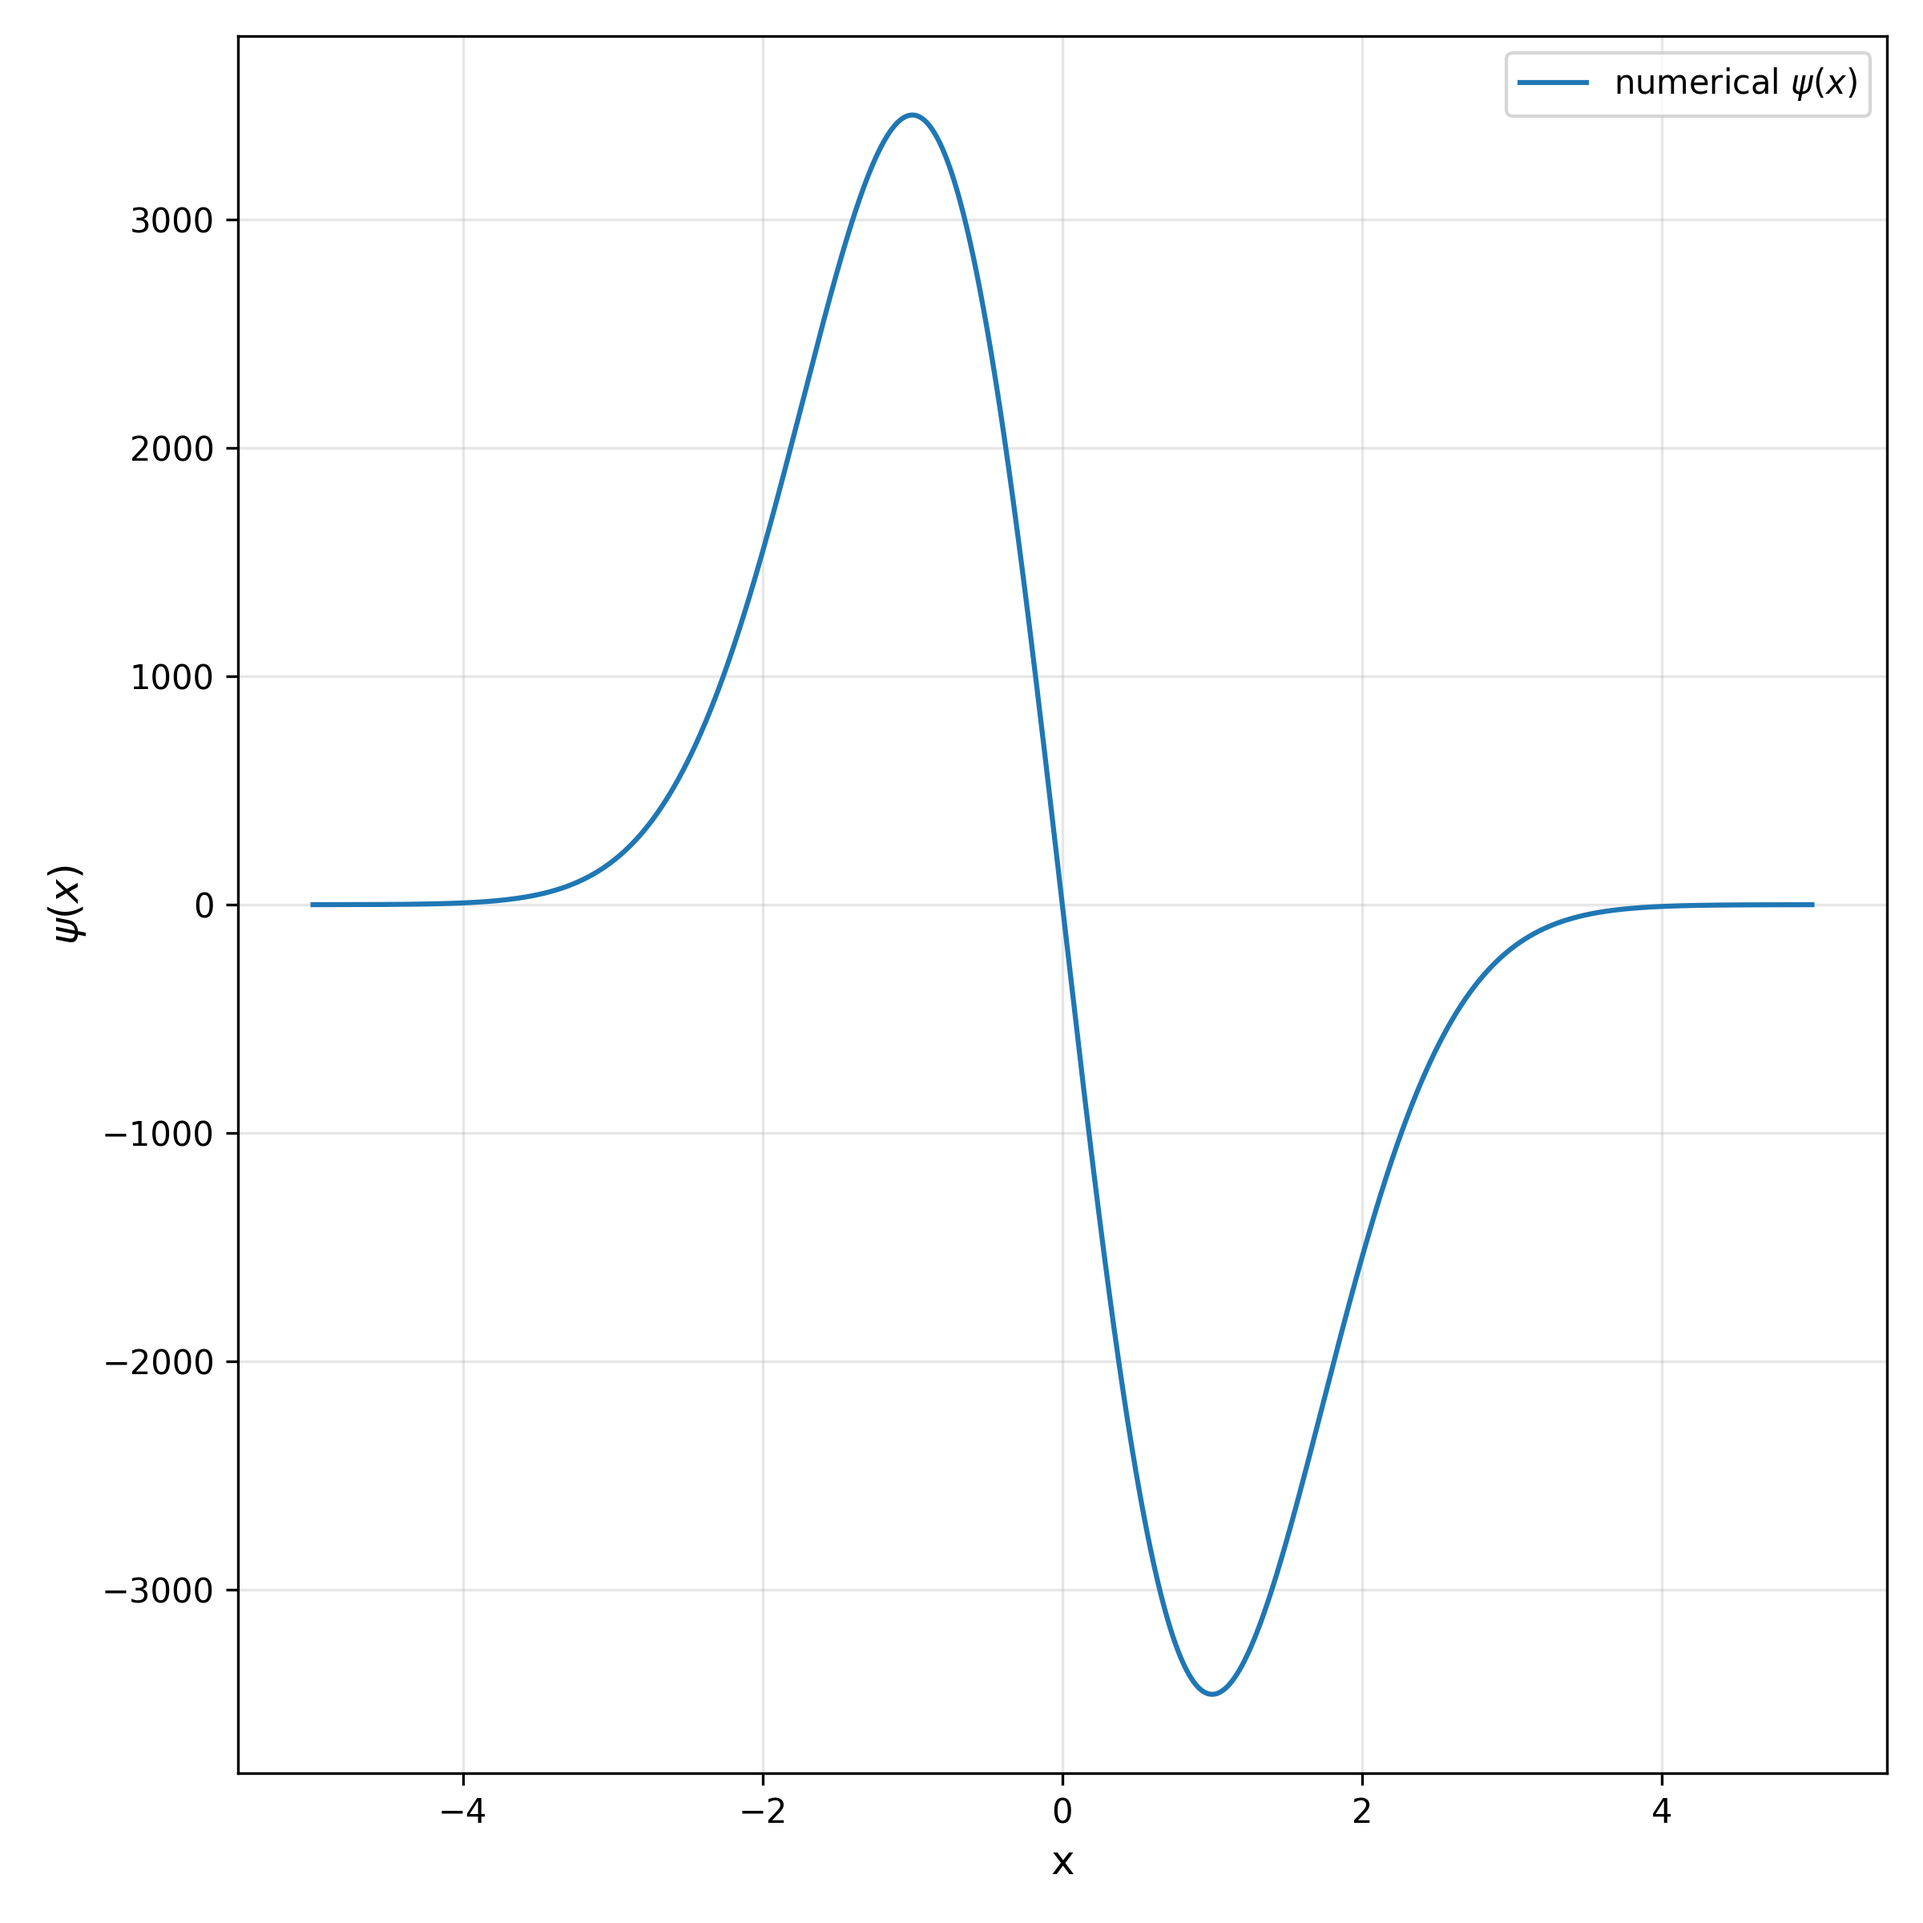
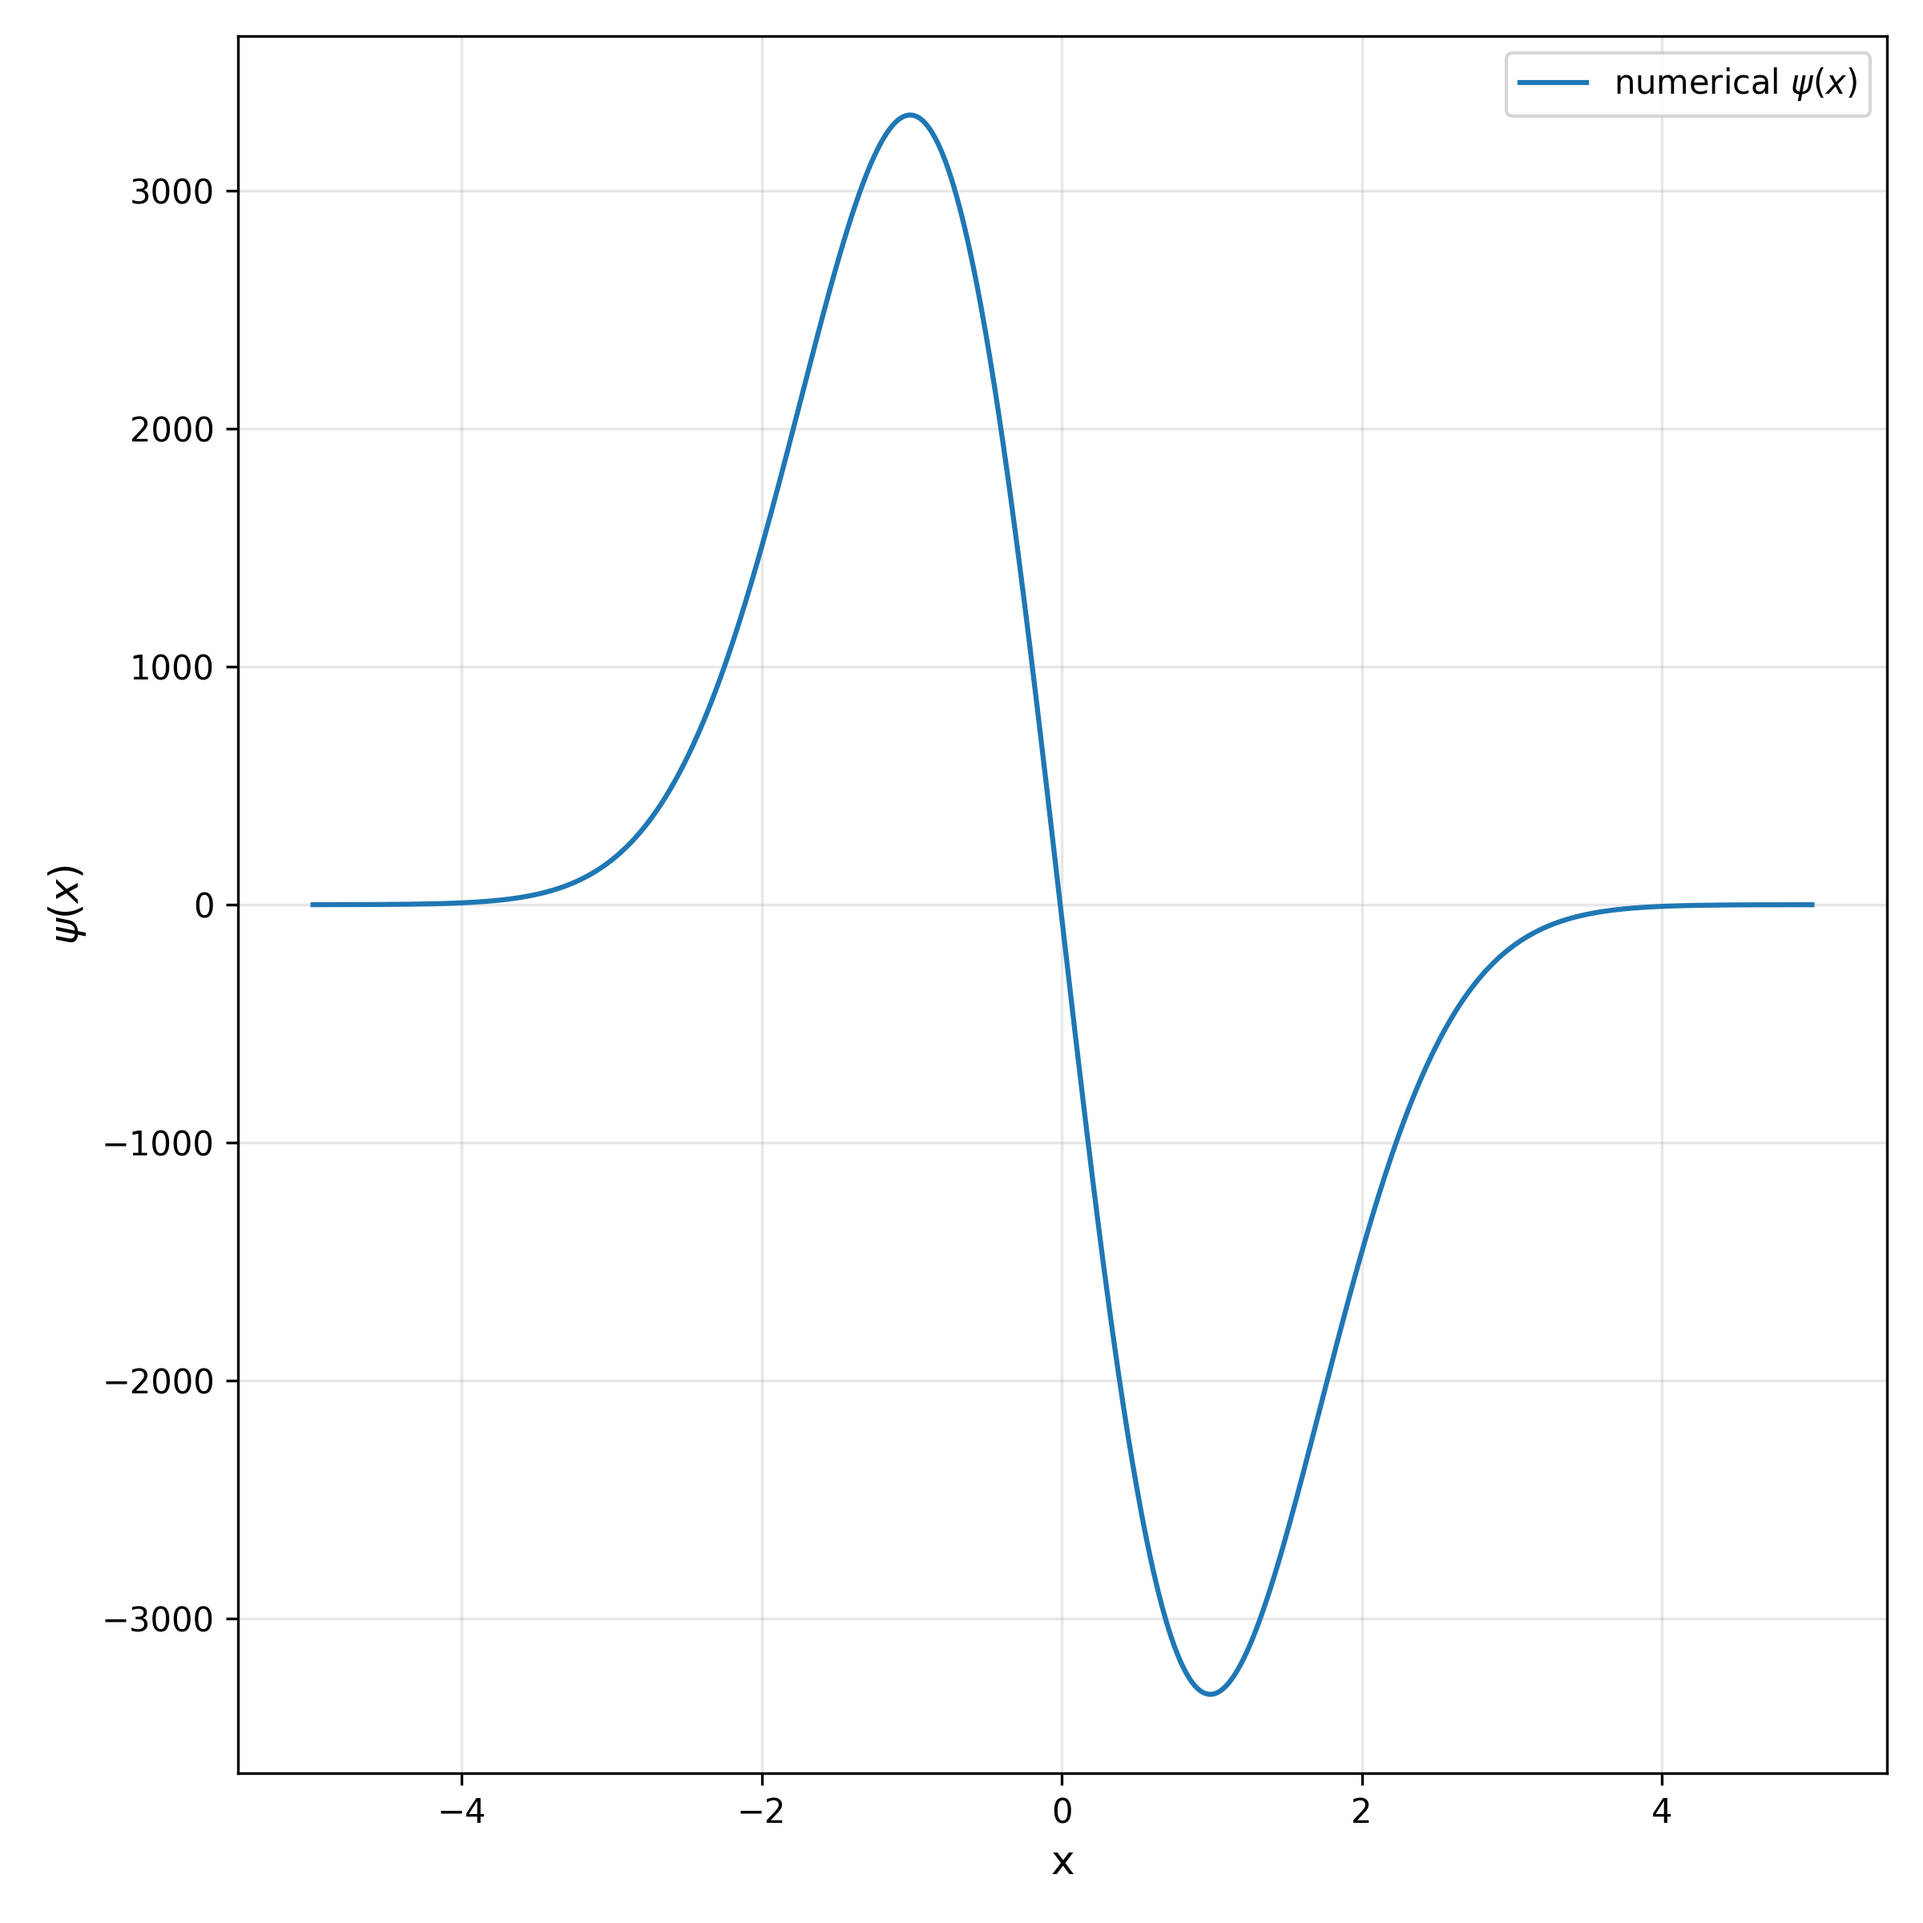
adding homework2

diff --git a/Homeworks/homework2.py b/Homeworks/homework2.py
@@ -1,5 +1,6 @@
 import numpy as np 
 import matplotlib.pyplot as plt 
+import math 
 
 ## PROBLEM 1: QUANTUM MECHANICS ON THE COMPUTER 
 ## Let φ(x)= dΨ/dx. Then, dφ(x)/dx = -2m * (EΨ(x)-V(x)Ψ(x))
@@ -44,7 +45,6 @@ def rk_schr(a, b, n, x, filename, corr, m, E, V, *V_args, **V_kwargs):
 
     plt.figure(figsize=(8, 8))
 
-    print(max(psi_vals))
 
     plt.plot(x_vals, psi_vals, label="numerical $\psi(x)$")
     # plt.plot(x_vals, corr_vals, label="analytic $\psi(x)$", linestyle="--")
@@ -56,11 +56,11 @@ def rk_schr(a, b, n, x, filename, corr, m, E, V, *V_args, **V_kwargs):
     plt.tight_layout()
     plt.savefig(f'./Homeworks/{filename}', dpi=300)
 
-    return 
+    return x
 
 
 # Run RK4 for this problem 
-n = 10000 
+n = 1000
 m = 1
 
 def test_V1(x): return 0 
@@ -74,22 +74,122 @@ x1_init = [0, 1]
 
 E = 10
 # normalization constant 0.22360679699168837
-# rk_schr(0, 10, n, x1_init, "free_system", corr1, m, E, test_V1)
+rk_schr(0, 10, n, x1_init, "free_system", corr1, m, E, test_V1)
 E = (np.pi**2)/200
 # normalization constant 3.183098861837903
-# rk_schr(0, 10, n, x1_init, "free_system_E2", corr1, m, E, test_V1)
+rk_schr(0, 10, n, x1_init, "free_system_E2", corr1, m, E, test_V1)
 
 w = 1 
 E0 = w/2
 
 x2_init = [0, 1]
-# rk_schr(-5, 5, n, x2_init, "sho", corr2_gs, m, E0, test_V2, m, w)
+rk_schr(-5, 5, n, x2_init, "sho", corr2_gs, m, E0, test_V2, m, w)
 # Plotting multiples of E0 give excited states of the SHO. 
 
-# rk_schr(-5, 5, n, x2_init, "sho_3E", corr2_gs, m, 3*E0, test_V2, m, w)
-# rk_schr(-5, 5, n, x2_init, "sho_5E", corr2_gs, m, 5*E0, test_V2, m, w)
+rk_schr(-5, 5, n, x2_init, "sho_3E", corr2_gs, m, 3*E0, test_V2, m, w)
+rk_schr(-5, 5, n, x2_init, "sho_32E", corr2_gs, m, 3.5*E0, test_V2, m, w)
+
+rk_schr(-5, 5, n, x2_init, "sho_5E", corr2_gs, m, 5*E0, test_V2, m, w)
 
 
 ## PROBLEM 2: THE SHOOTING METHOD 
+def rk_isw(E, a, b, n, x, m, V, *V_args, **V_kwargs): 
+    x = np.array(x)
+    t = a 
+    h = (b-a)/n
+
+    for i in range(n): 
+        t += h
+        xt = runge_kutta(sch_rhs, t, h, x, m, E, V, *V_args, **V_kwargs)
+        x = xt 
+
+    return x[0]
+
+w = 1 
+E_vals = np.linspace(0, 3*w, 1000)
+psi_vals = []
+
+for E in E_vals: 
+    psi_vals.append(rk_isw(E, -5, 5, n, [0, 1], m, test_V2, m, w))
+plt.figure(figsize=(8, 8))
+
+
+plt.plot(E_vals, psi_vals, label="numerical $\psi(x)$")
+
+plt.xlabel('E', fontsize=12)
+plt.ylabel('$\psi(x)$', fontsize=12)
+plt.legend(fontsize=10)
+plt.grid(True, alpha=0.3)
+plt.tight_layout()
+plt.savefig(f'./Homeworks/inf_sq', dpi=300)
+
+# bisection 
+
+def root_finder(Emin, Emax, f, *f_args, threshold=1e-5, **fkwargs): 
+    x0 = Emin   
+    roots = [] 
+    while x0 <= Emax:
+        a = x0 
+        b = a + 0.01 
+
+        if f(a, *f_args, **fkwargs)*f(b, *f_args, **fkwargs) < 0: 
+            while abs(a-b) > threshold:
+                mid = (a+b)/2
+                fmid = f(mid, *f_args, **fkwargs)
+                if fmid == 0: 
+                    break
+                if f(a, *f_args, **fkwargs)*fmid < 0: 
+                    b = mid 
+                elif f(b, *f_args, **fkwargs)*fmid < 0:
+                    a = mid 
+
+            roots.append(mid)
+        
+        x0 += 0.01 
+
+    return roots 
+
+# shooting method for free system 
+E_min = 0
+E_max = 1.5
+
+i_values = [i for i in range(5)]
+correct = [(np.pi**2)/(200)*(i+1)**2 for i in range(5)]
+E_roots = root_finder(E_min, E_max, rk_isw, 0, 10, n, [0, 1], m, test_V1, threshold=1e-10)
+
+
+plt.figure(figsize=(8, 8))
+
+plt.plot(i_values, E_roots, label="numerical estimates", marker="o")
+plt.plot(i_values, correct, label="predictions", marker="*")
+
+plt.xlabel('n', fontsize=12)
+plt.ylabel('$E_n$', fontsize=12)
+plt.legend(fontsize=10)
+plt.grid(True, alpha=0.3)
+plt.tight_layout()
+plt.savefig(f'./Homeworks/shooting_zero_free', dpi=300)
+
+    
+# shooting method for harmonic oscillator 
+
+E_min = 0
+E_max = 5
+i_values = [i for i in range(5)]
+correct = [w/2*(2*i+1) for i in range(5)]
+E_roots = root_finder(E_min, E_max, rk_isw, -5, 5, n, [0, 1], m, test_V2, m, w, threshold=1e-10)
+
+plt.figure(figsize=(8, 8))
+
+plt.plot(i_values, E_roots, label="numerical estimates", marker="o")
+plt.plot(i_values, correct, label="predictions", marker="*", linestyle="--")
+
+plt.xlabel('n', fontsize=12)
+plt.ylabel('$E_n$', fontsize=12)
+plt.legend(fontsize=10)
+plt.grid(True, alpha=0.3)
+plt.tight_layout()
+plt.savefig(f'./Homeworks/shooting_zero_sho', dpi=300)
+
 
 
